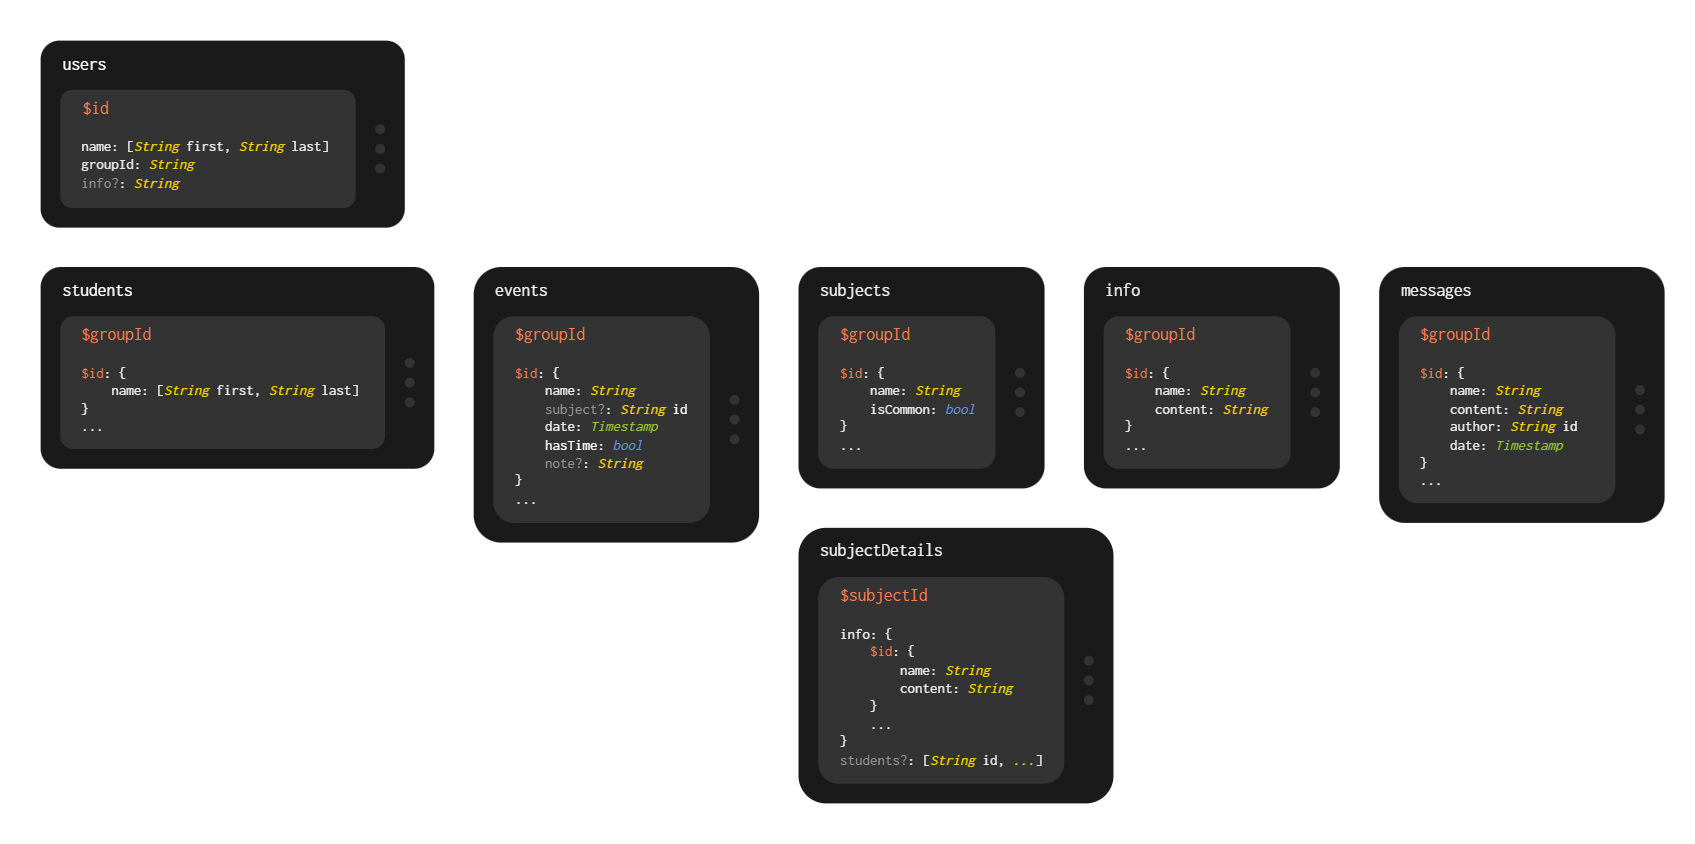
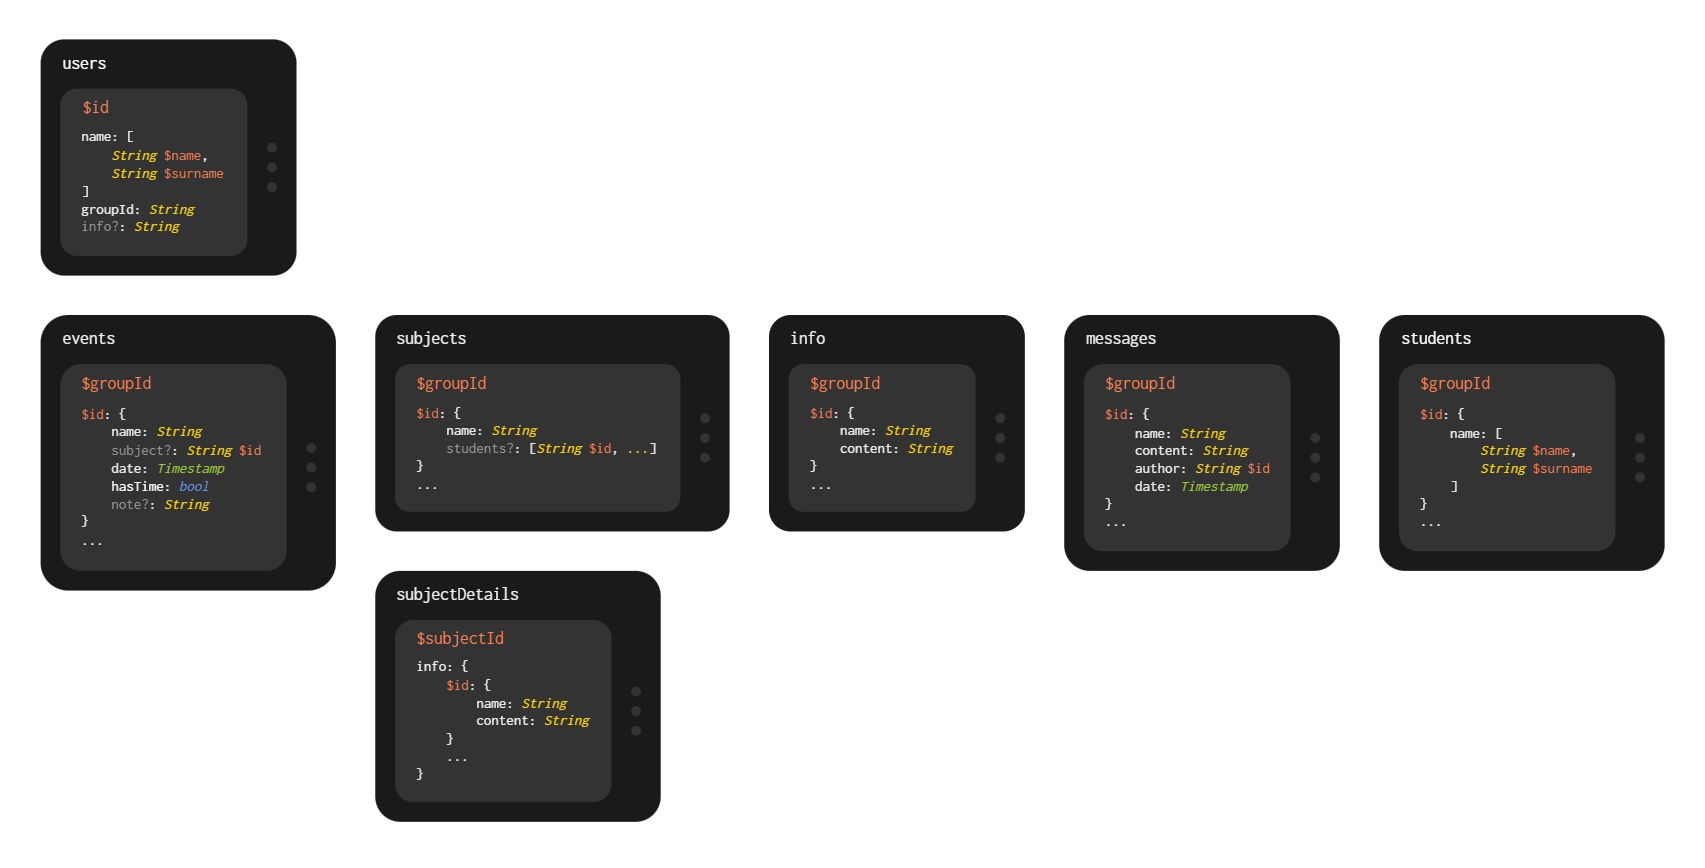
Implement not studying subjects

diff --git a/app/lib/features/home/presentation/sections/subjects/section.dart b/app/lib/features/home/presentation/sections/subjects/section.dart
@@ -25,31 +25,35 @@ class SubjectsSection extends HomeSection {
 
 	@override
 	Widget build(BuildContext context, WidgetRef ref) {
-		final subjects = ref.watch(subjectsProvider);
+		var subjects = ref.watch(subjectsProvider);
+		subjects = subjects?.where((s) => s.isStudied)
+			.followedBy(subjects.where((s) => !s.isStudied));
+
 		final events = ref.watch(eventsProvider);
-		final entitiesArePresent = subjects != null && events != null;
 
 		return Scaffold(
 			appBar: HomeSectionBar(
 				name: name,
 				icon: icon,
+				// do: change
 				count: subjects?.length
 			),
-			body: entitiesArePresent ?
-				EntitiesList<Subject>(
-					subjects,
-					tile: (subject) {
-						final nextEvent = events.firstWhereOrNull((e) => e.subject == subject);
-						return EntityTile(
+			body: EntitiesList<Subject>(
+				subjects != null && events != null ? subjects : null,
+				tile: (subject) {
+					final nextEvent = events!.firstWhereOrNull((e) => e.subject == subject);
+					return Opacity(
+						opacity: subject.isStudied ? 1 : .5,
+						child: EntityTile(
 							title: subject.name,
 							subtitle: nextEvent?.name,
 							trailing: nextEvent?.date.shortRepr,
 							pageBuilder: (context) => SubjectPage(subject)
-						);
-					},
-					formBuilder: (context) => const SubjectForm()
-				) :
-				Center(child: Icon(icon))
+						)
+					);
+				},
+				formBuilder: (context) => const SubjectForm()
+			)
 		);
 	}
 }

diff --git a/app/lib/features/home/data/repository.dart b/app/lib/features/home/data/repository.dart
@@ -14,7 +14,7 @@ import '../domain/entities/subject.dart';
 
 
 // do: failures
-// do: capture common logic
+// do: define addEntity, entities
 // do: prevent unnecessary reads
 class HomeRepository {
 	const HomeRepository();
@@ -35,7 +35,7 @@ class HomeRepository {
 		await Document.subjects.ref.update({
 			subject.id: {
 				Field.name.name: subject.name,
-				Field.isCommon.name: subject.isCommon
+				if (subject.students != null) Field.students.name: subject.students
 			}
 		});
 	}
@@ -87,7 +87,9 @@ class HomeRepository {
 		return snapshot.data()!.entries.map((entry) => Subject(
 			id: entry.key,
 			name: entry.value[Field.name.name],
-			isCommon: entry.value[Field.isCommon.name]
+			students: !entry.value.containsKey(Field.students.name) ?
+				null :
+				List<String>.from(entry.value[Field.students.name])
 		));
 	}
 
@@ -121,8 +123,8 @@ class HomeRepository {
 		final snapshot = await Document.students.ref.get();
 		return snapshot.data()!.entries.map((entry) => Student(
 			id: entry.key,
-			name: entry.value[Field.name.name][0],
-			surname: entry.value[Field.name.name][1]
+			name: (entry.value[Field.name.name] as List<String>).first,
+			surname: (entry.value[Field.name.name] as List<String>).last
 		));
 	}
 }

diff --git a/app/lib/features/home/domain/entities/subject.dart b/app/lib/features/home/domain/entities/subject.dart
@@ -1,3 +1,5 @@
+import 'package:podiinyk/core/domain/user.dart';
+
 import 'entity.dart';
 
 
@@ -5,12 +7,14 @@ class Subject extends Entity {
 	const Subject({
 		required String id,
 		required this.name,
-		required this.isCommon
+		required this.students
 	}) :
 		super(id: id);
 
 	final String name;
-	final bool isCommon;
+	final Iterable<String>? students;
+
+	bool get isStudied => students == null ? true : students!.contains(User.id);
 
 	@override
 	int compareTo(covariant Subject other) => name.compareTo(other.name);

diff --git a/app/lib/features/home/presentation/sections/subjects/form.dart b/app/lib/features/home/presentation/sections/subjects/form.dart
@@ -27,6 +27,7 @@ class SubjectForm extends HookConsumerWidget {
 						controller: nameField,
 						decoration: const InputDecoration(labelText: 'name')
 					),
+					// think: a switch
 					OptionField<bool>(
 						label: 'type',
 						options: const [
@@ -48,7 +49,7 @@ class SubjectForm extends HookConsumerWidget {
 		ref.read(subjectsProvider.notifier).add(Subject(
 			id: Entity.newId(),
 			name: name,
-			isCommon: isCommon
+			students: isCommon ? null : const []
 		));
 		Navigator.of(context).pop();
 	}

diff --git a/app/lib/features/home/presentation/sections/events/form.dart b/app/lib/features/home/presentation/sections/events/form.dart
@@ -52,7 +52,8 @@ class EventForm extends HookConsumerWidget {
 					if (subjects.isNotEmpty) OptionField<Subject>(
 						label: 'subject',
 						options: [
-							for (final subject in subjects) MapEntry(subject.name, subject)
+							for (final subject in subjects.where((s) => s.isStudied))
+								MapEntry(subject.name, subject)
 						],
 						onPick: (s) => subject.value = s,
 						isRequired: false

diff --git a/app/lib/core/data/types/field.dart b/app/lib/core/data/types/field.dart
@@ -4,8 +4,8 @@ enum Field {
 	date,
 	hasTime,
 	id,
-	isCommon,
 	name,
 	note,
+	students,
 	subject
 }

diff --git a/decisions.md b/decisions.md
@@ -1,53 +1,79 @@
-# Decisions
+# What attributes does the user have besides the name?
 
 
-## What attributes does the user have besides the name?
-
-
-### 1
+## 1
 
 An arbitrary username.
 
-#### -
+### -
 - no way to recover the password
 - a person can create any number of accounts
 
-### [2]
+## **2**
 
 An email.
 
-#### +
+### +
 - done with `Firebase Authentication`
 
-#### -
+### -
 - a person can create any number of accounts with services that provide emails for a short period of time
 
-### 3
+## 3
 
 A phone number.
 
-#### -
+### -
 - it appears there is no free solution
 
 
-## When is an event deleted?
+# When is an event deleted?
 
 
-### 1
+## 1
 
 At midnight.
 
-#### -
+### -
 - not all students may be done with it
 
-### 2
+## 2
 
 When the event is hidden by the last student.
 
-#### -
+### -
 - not all students may actively use the app
 
-### [3]
+## **3**
 
 At midnight of the next day.
 On the last day of the event's life, a request can be made to keep it for 2 more days.
+
+
+# How is students-to-subjects relation stored?
+
+
+## 1
+
+A subject stores it's students in the details.
+
+### -
+- it is impossible to know which subjects are relevant to a user with 1 read
+
+## **2**
+
+A subject stores it's students.
+
+## 3
+
+A user stores their subjects.
+
+### -
+- it is impossible to know which students are relevant to a subject with 1 read
+
+## 4
+
+Subjects are stored per student in the group's students document.
+
+### -
+- the subject page requires 2 reads
